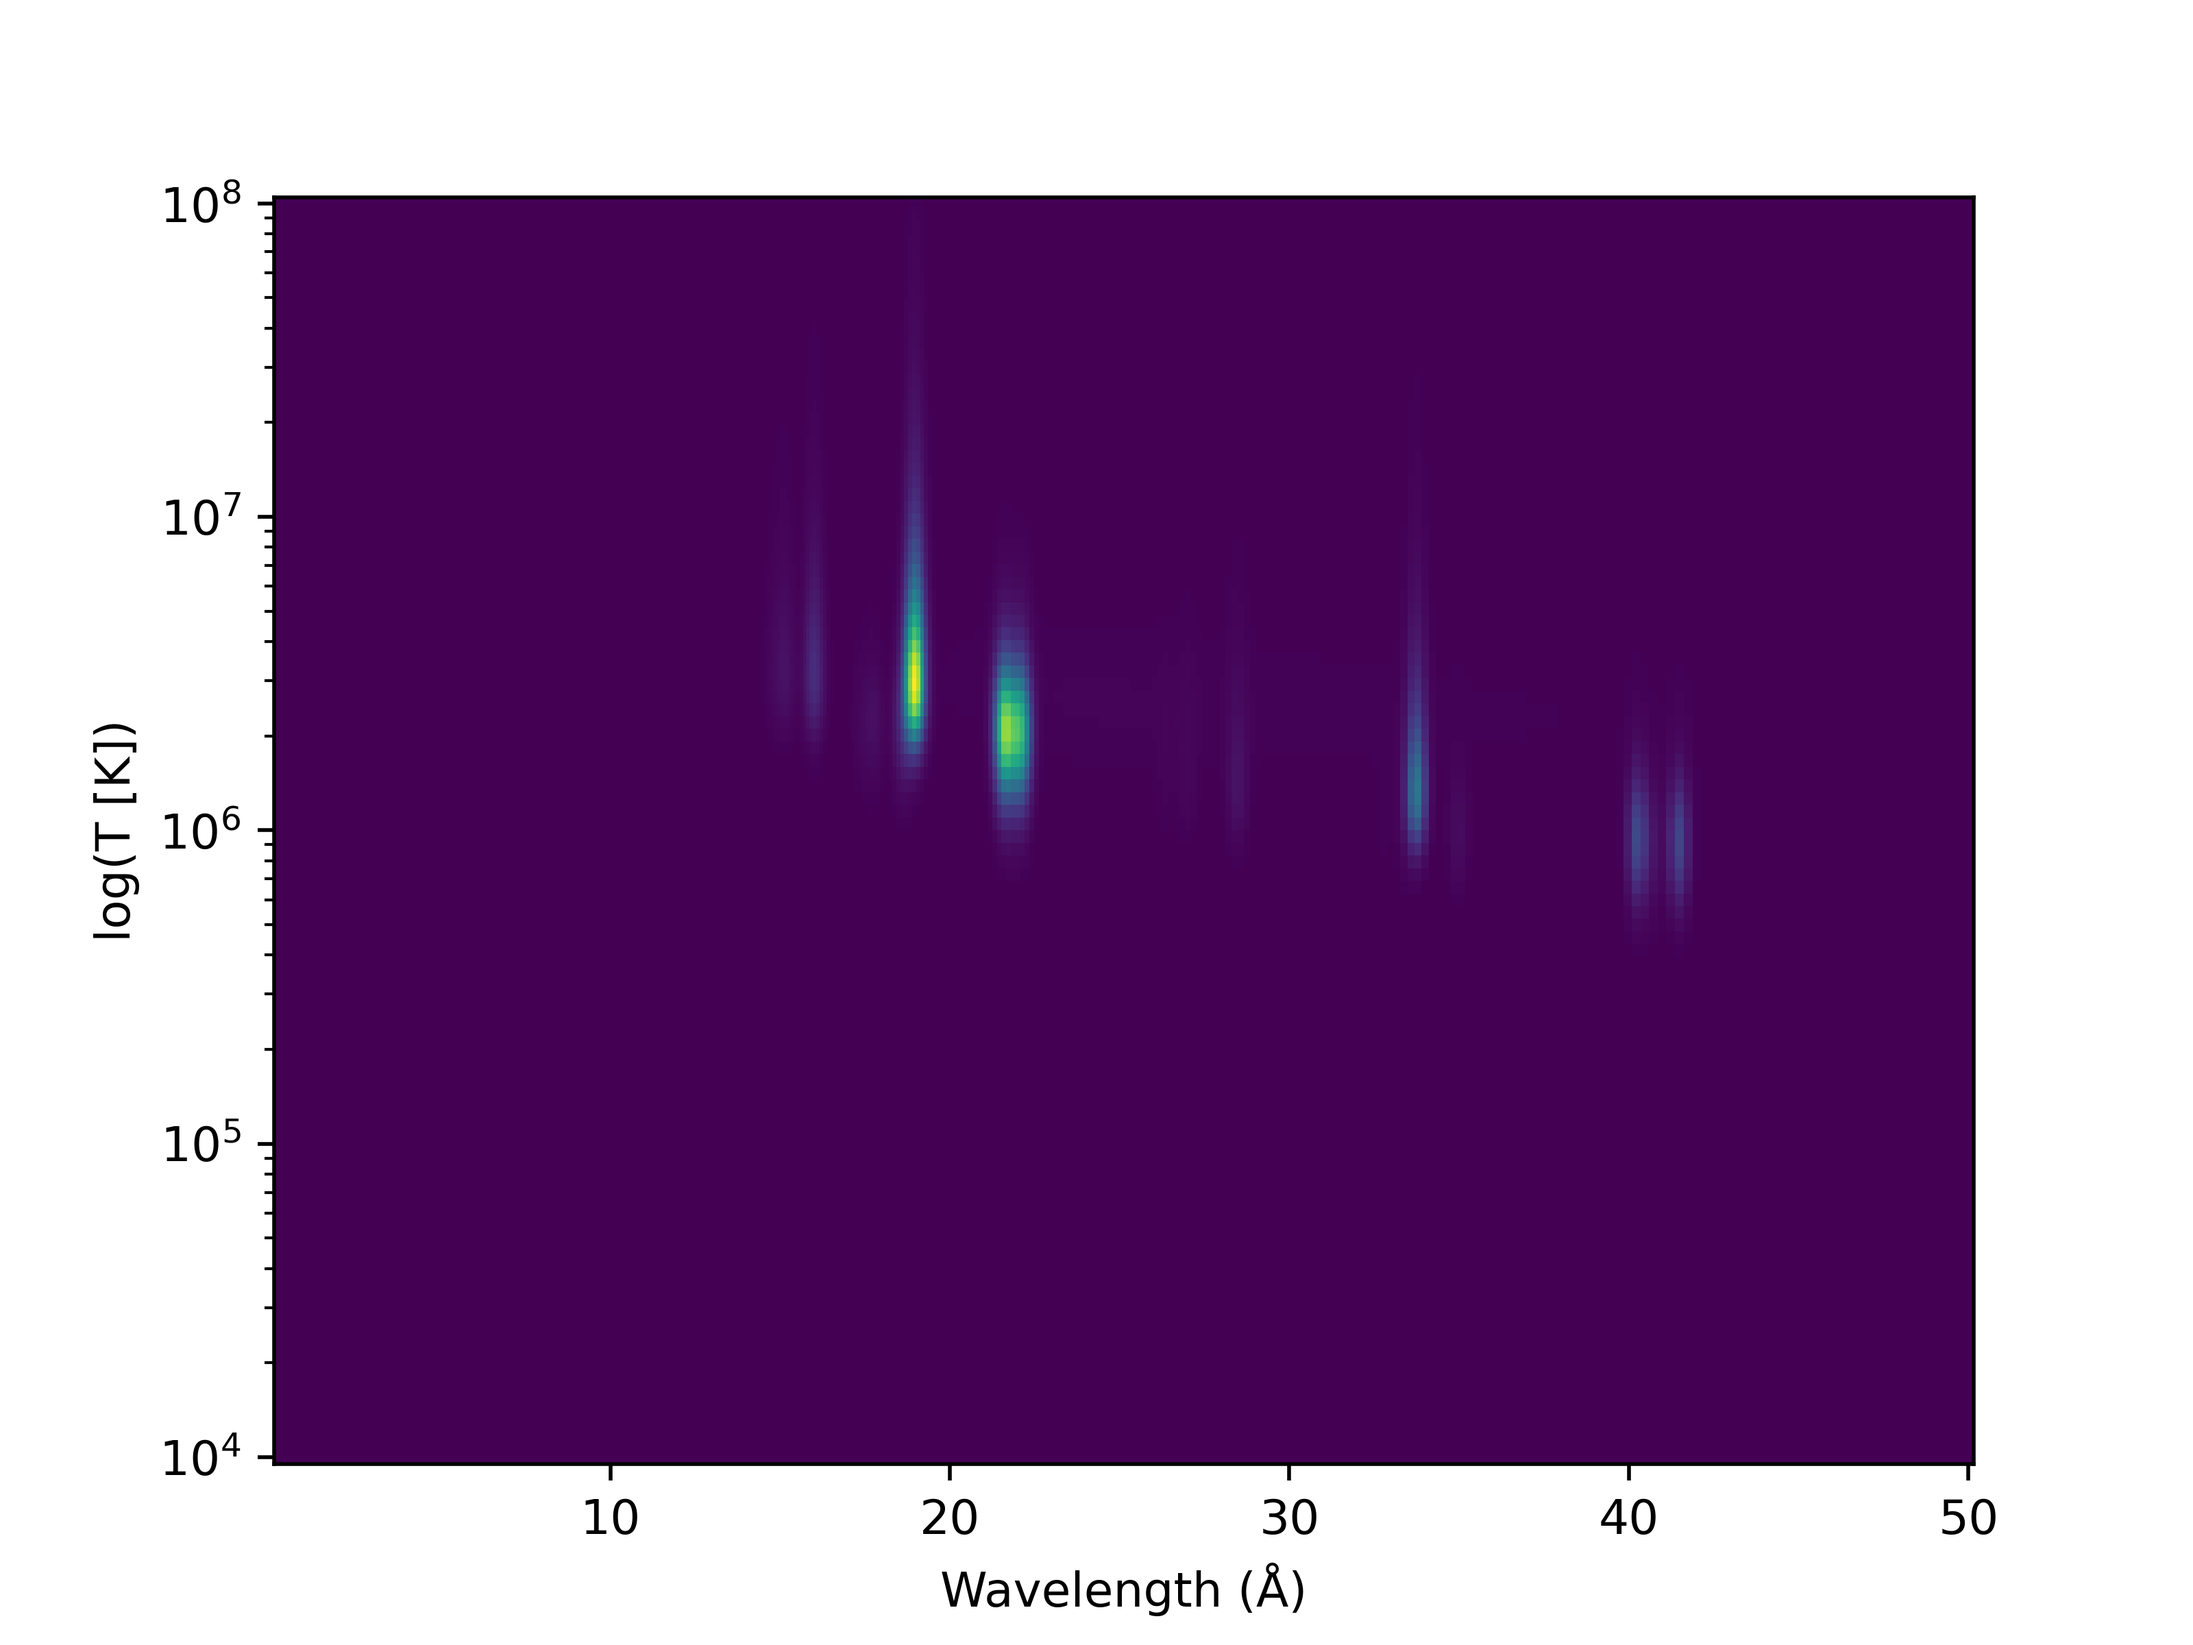
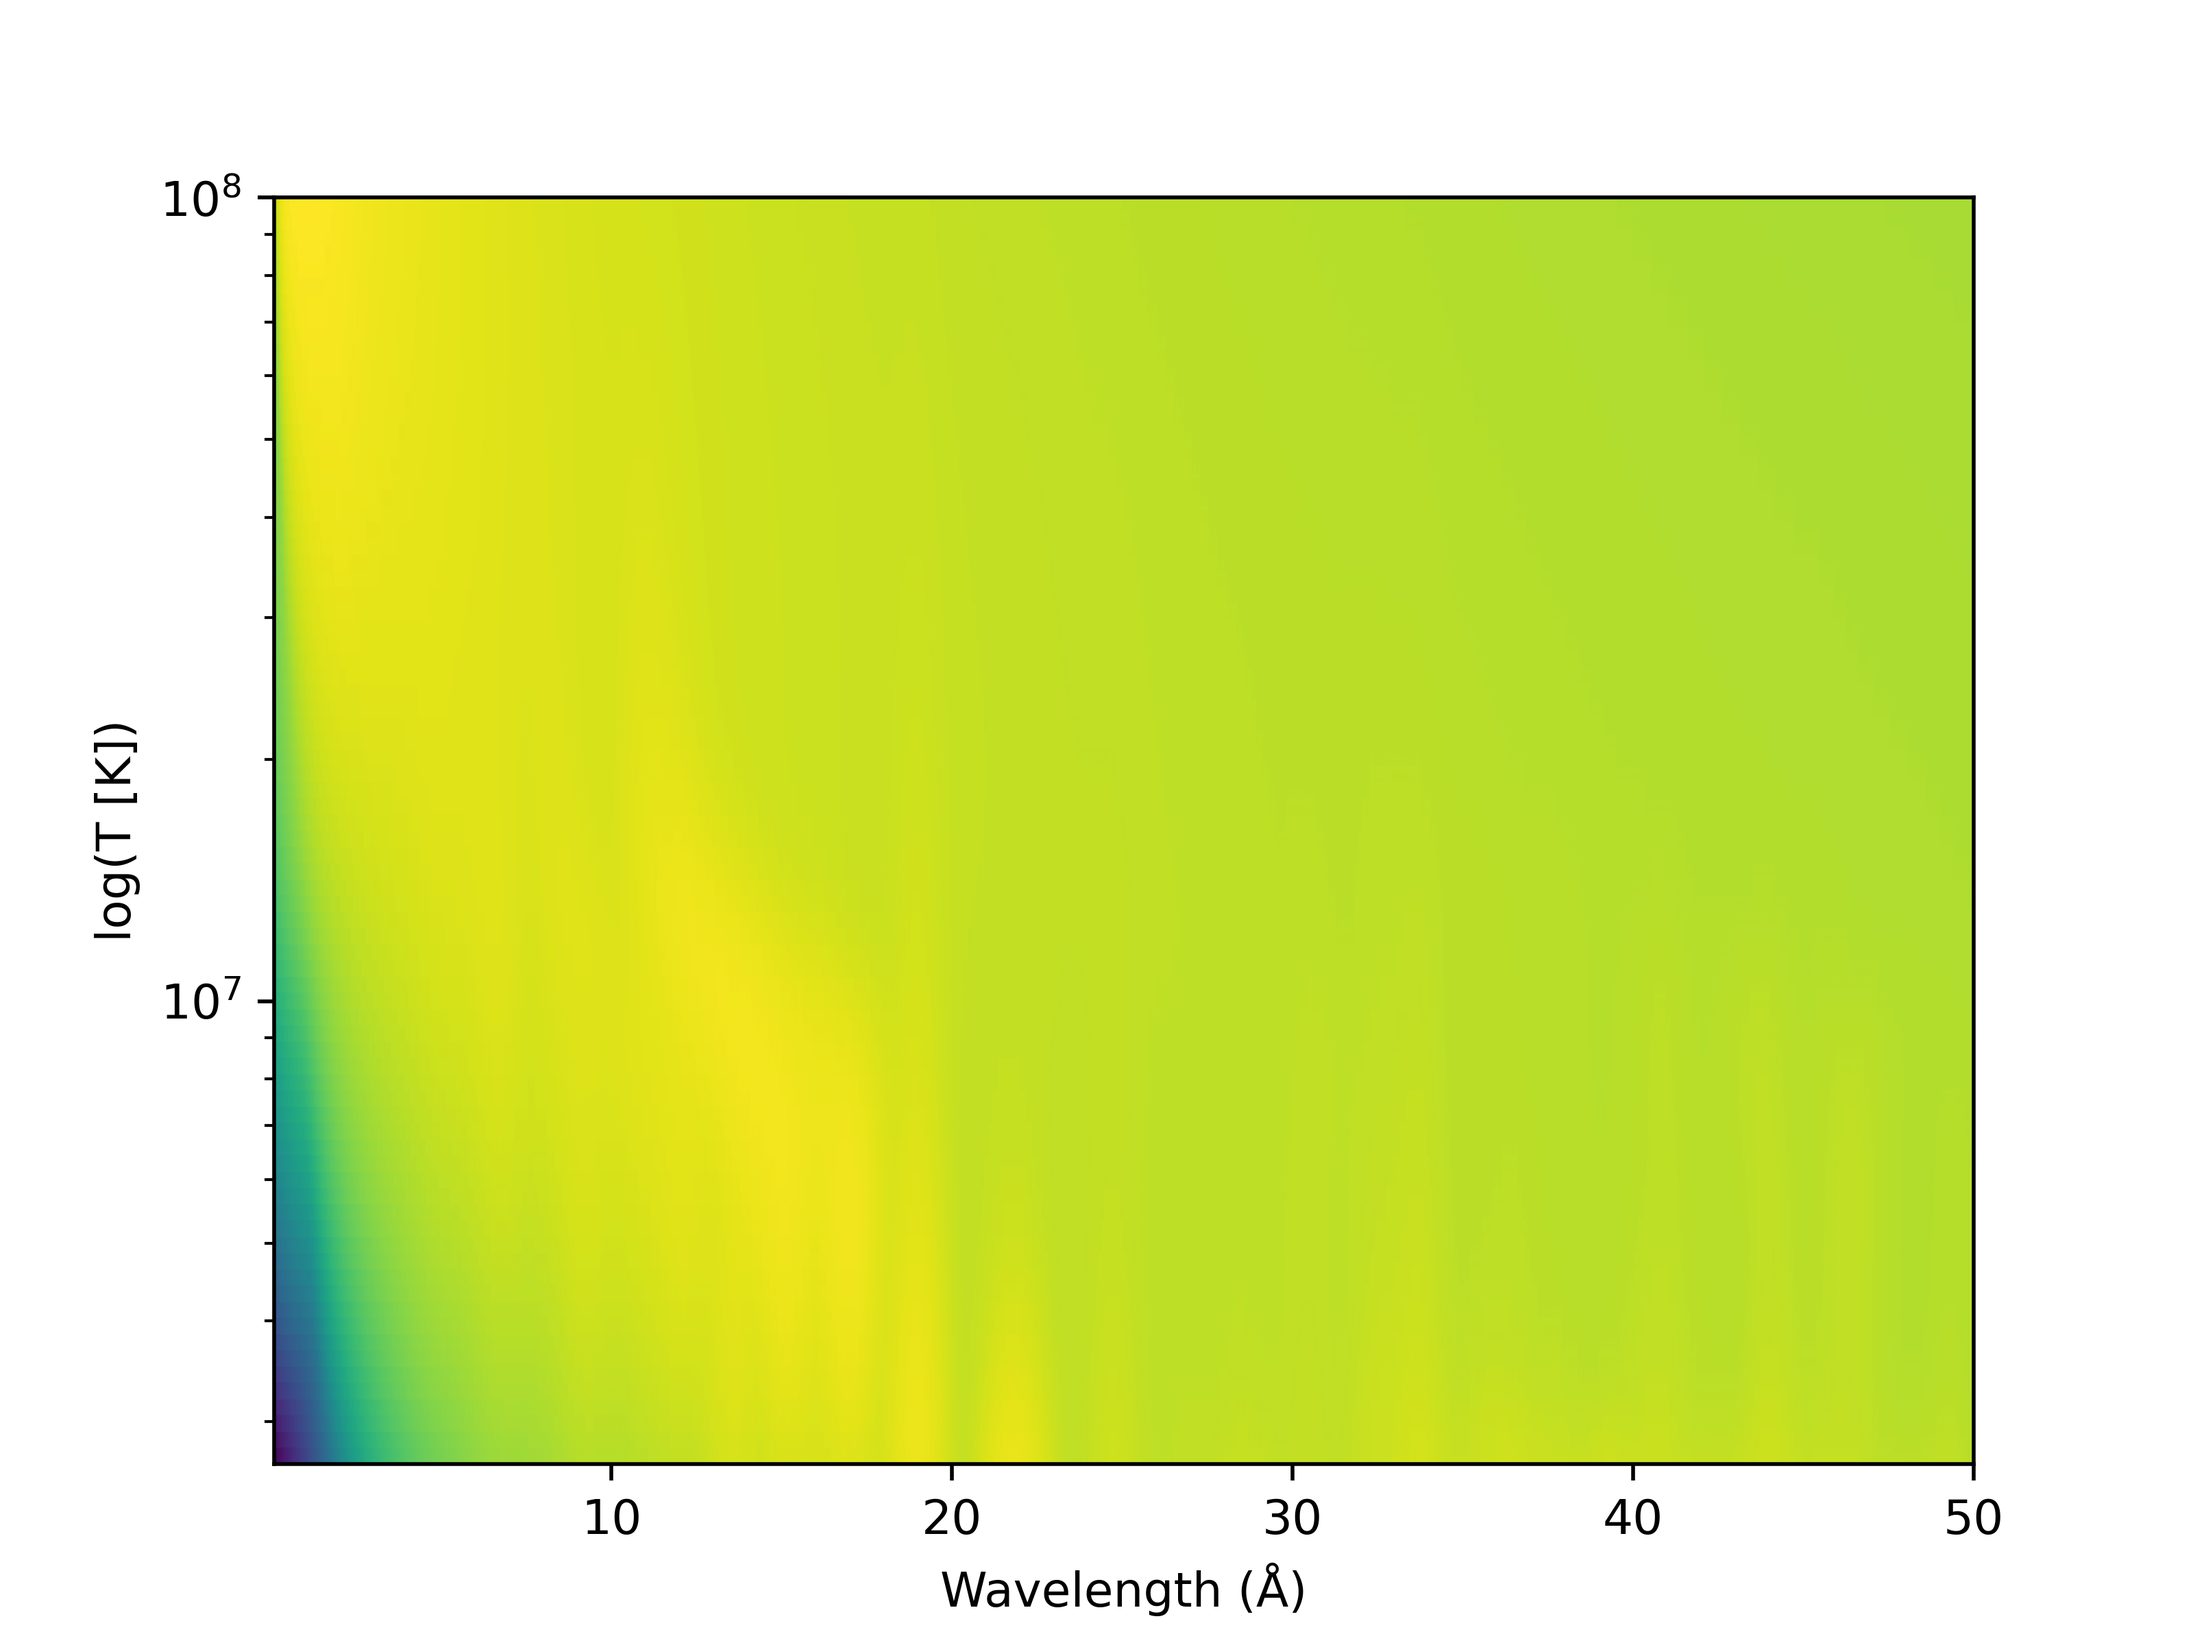
1.

diff --git a/Create_lambda.py b/Create_lambda.py
@@ -8,17 +8,17 @@ from scipy.interpolate import interp1d
 # Well try to create a lambda function fist for one wavelength
 import ChiantiPy.tools.filters as chfilters
 
-wvl = np.geomspace(0.1, 50, 1000) #angstrom
+wvl = np.geomspace(0.1, 50, 5000) #angstrom
 temperature = np.logspace(4, 8, 100)
 
 density = 1.e+9
-emeasure = np.full_like(temperature, 1 )
-s = ch.spectrum(temperature, density, wvl, filter = (chfilters.gaussian, 0.2), em = emeasure, doContinuum=0, minAbund=1.e-4, verbose=0)
+emeasure = np.full_like(temperature, 1e27)
+s = ch.spectrum(temperature, density, wvl, filter = (chfilters.gaussian, 0.5), em = emeasure, doContinuum=1, minAbund=1.e-5, verbose=0)
 # %%
 import matplotlib as mpl
-L, T = np.meshgrid(wvl, temperature)
+L, T = np.meshgrid(wvl, temperature[60:])
 
-plt.pcolormesh(L, T, s.Spectrum['intensity'])
+plt.pcolormesh(L, T, s.Spectrum['intensity'][60:], shading='gouraud', norm='log')
 plt.yscale('log')
 plt.ylabel('log(T [K])')
 plt.xlabel(s.Spectrum['xlabel'])
@@ -26,40 +26,5 @@ plt.savefig('Figures/2D_G function', dpi=500)
 plt.colorbar()
 plt.show()
 # %%
-# Plot lambda as a function of temperature for the whole spectrum
-Intensities = np.trapz(s.Spectrum['intensity'], wvl, axis=-1)
 
-# Interpolating this data
-Linear_Interpolator = interp1d(temperature, Intensities)
-quadratic_Interpolator = interp1d(temperature, Intensities, kind='quadratic')
-full_temps = np.logspace(5, 9, 100)
-
-plt.plot(full_temps, Linear_Interpolator(full_temps), label='Linear interpolated lambda')
-plt.plot(full_temps, quadratic_Interpolator(full_temps), label='Quadratic interpolated lambda')
-plt.scatter(temperature, Intensities, label='sampled lambda')
-plt.xscale('log')
-plt.xlabel('Temperature (K)')
-plt.ylabel('Xray Flux (erg cm$^{-2}$ s$^{-1}$ sr$^{-1}$)')
-plt.legend()
-plt.savefig('Figures/Lambda_Temperature.png')
-plt.show()
-
-# %%
-# We want a wavelength dependend lambda
-def create_lambda(temperatures, minwvl, maxwvl, density=1.e9, em=1.e27, continuum=1):
-
-    wvl = np.linspace(minwvl, maxwvl, 1000) # Wavelength range for Xray
-    s = ch.spectrum(temperature=temperatures, eDensity=density, wavelength=wvl, em=em, doContinuum=continuum, minAbund=1.e-4)
-    
-    Lambda = interp1d(temperatures, Fluxes_T, kind='linear')
-    return Lambda
-
-Lambda = create_lambda(temperature, 0.1, 100)
-# %%
-plt.plot(full_temps, Lambda(full_temps))
-plt.xscale('log')
-plt.xlabel('Temperature (K)')
-plt.ylabel('Xray Flux (erg cm$^{-2}$ s$^{-1}$ sr$^{-1}$)')
-plt.legend()
-plt.show()
     
